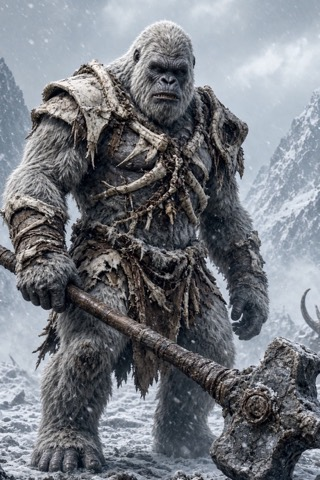
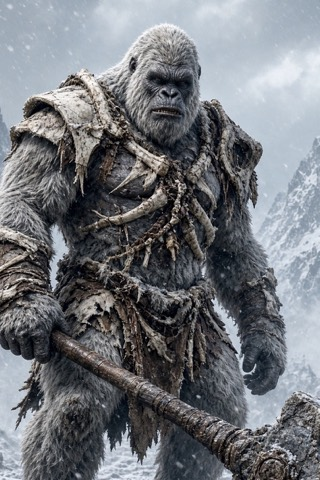
Resting-thumb guard, longer Night Vision, POLY on Halloween, lap-wrap map, bigger Ice Age cards, stale ad fix
- A still press held over 500ms on a card is a grip, not a tap (FX.restGuard)
- Night Vision lasts 6.5s (was 4.4s); dev switch NIGHT VISION LENGTH
- Every Halloween level deals the POLY card; Halloween records move to deal 1010
- POLY lightbox paints its hologram background on the first open
- Chapter 11 -> 1 plays as a fresh intro (EXPEDITION+ BEGINS) instead of the trail in reverse
- Ice Age cards: cardFill 1.15, board thumbs zoomed 1.45x
- iOS/Android: rewarded ads older than 55 minutes are dropped and reloaded

diff --git a/web/index.html b/web/index.html
@@ -633,7 +633,7 @@
   <div class="overlay" id="overlay"><div class="dialog"><h2 id="resultTitle">CAGE FULL</h2><p id="resultText"></p><p class="continue-pitch" id="continuePitch" hidden>One more chance? Clear your cage and keep going.</p><p class="tut-resume-note" id="tutResumeNote"></p><button class="action primary ad-btn" id="continueLevel" hidden><svg class="ad-play" viewBox="0 0 24 24" aria-hidden="true"><path d="M8 5.5v13l10.5-6.5z"/></svg>RESUME <small>(Watch Ad)</small></button><button class="action primary ad-btn" id="adShuffle" hidden><svg class="ad-play" viewBox="0 0 24 24" aria-hidden="true"><path d="M8 5.5v13l10.5-6.5z"/></svg>SHUFFLE <small>(Watch Ad)</small></button><button class="action primary" id="retryLevel">RETRY LEVEL</button><button class="action" id="overlayUndo" hidden>Undo last move</button><button class="action ad-btn" id="adUndo" hidden><svg class="ad-play" viewBox="0 0 24 24" aria-hidden="true"><path d="M8 5.5v13l10.5-6.5z"/></svg>UNDO <small>(Watch Ad)</small></button><button class="link-btn" id="failHome">Home</button></div></div>
   <div class="overlay" id="climbOverlay"><div class="dialog climb-dialog" role="dialog" aria-modal="true" aria-labelledby="climbTitle"><h2 id="climbTitle">CLIMBING!</h2><p class="climb-sub" id="climbSub"></p><ol class="climb-list" id="climbList"></ol><p class="climb-more" id="climbMore" hidden></p><button class="action primary" id="climbContinue">CONTINUE</button></div></div>
   <div class="overlay" id="winOverlay"><div class="win-rays" aria-hidden="true"></div><div class="dialog win-dialog"><div class="win-hero win-step" id="winHero"><div class="win-hero-card" id="winHeroCard"></div><div class="win-level" id="winLevel">LEVEL 1 CLEAR!</div></div><div class="win-time win-step" id="winTimeBox"><small>YOUR TIME</small><b id="winTime">0:00</b><div class="win-stamp" id="winStamp" hidden><b>NEW BEST!</b><small id="winStampSub"></small></div></div><div class="win-badge win-step" id="winBadge"></div><div class="win-badge win-world win-step" id="winWorld" hidden></div><div class="win-score win-step" id="winScore"><div class="win-gain"><span><b id="winPoints">+0</b><small id="winPointsLabel">POINTS</small></span><span><b id="winXp">+0</b><small>XP</small></span><span id="winChain" hidden><b id="winChainN">×0</b><small id="winChainLabel">BEST CHAIN</small></span></div><div class="win-tier" id="winTier"><span id="winTierBadge"></span><div class="tier-track"><div class="tier-bar"><i id="winTierFill"></i></div><small id="winTierText"></small></div><div class="win-streak win-step" id="winStreak" hidden><span class="flame" aria-hidden="true">🔥</span><b id="winStreakCount">1</b><small id="winStreakLabel" data-loc-html="DAY<br>STREAK">DAY<br>STREAK</small></div></div><div class="win-chapter" id="winChapter" hidden><small id="winChapterDone">CHAPTER COMPLETE</small><b id="winChapterName"></b><em id="winChapterNext"></em></div><div class="win-unlock" id="winUnlock" hidden><small>NEW CARDS UNLOCKED</small><b id="winUnlockName"></b></div><div class="win-rank" id="winRank" hidden><b id="winRankText"></b></div></div><button class="action primary" id="nextLevel">NEXT LEVEL</button><button class="link-btn" id="winHome">Home</button></div></div>
-<div class="overlay" id="settings"><div class="dialog settings-dialog" role="dialog" aria-modal="true" aria-labelledby="settingsTitle"><div class="settings-art" aria-hidden="true"></div><button class="settings-close" id="settingsClose" aria-label="Close settings">×</button><div class="settings-scroll"><h2 id="settingsTitle">SETTINGS</h2><div class="set-row"><div class="set-label">PLAYER</div><button class="name-chip" id="settingsName"><span id="settingsTierBadge"></span><b id="settingsNameText">—</b><small>EDIT ✎</small></button></div><div class="set-row"><div class="set-label" id="musicLabel">MUSIC</div><div class="dip" data-setting="music" role="radiogroup" aria-labelledby="musicLabel"><button role="radio" data-value="relaxed">RELAXED</button><button role="radio" data-value="competitive">COMPETITIVE</button></div><small class="set-hint" id="musicHint"></small></div><div class="set-row"><div class="set-label" id="difficultyLabel">DIFFICULTY</div><div class="dip" data-setting="difficulty" role="radiogroup" aria-labelledby="difficultyLabel"><button role="radio" data-value="easy">EASY</button><button role="radio" data-value="normal">NORMAL</button></div><small class="set-hint" id="difficultyHint"></small></div><div class="set-row"><div class="set-label" id="cageLabel">CAGE</div><div class="dip" data-setting="cage" role="radiogroup" aria-labelledby="cageLabel"><button role="radio" data-value="hand">CHAINED</button><button role="radio" data-value="classic">CLASSIC</button></div><small class="set-hint" id="cageHint"></small></div><div class="set-row"><div class="set-label" id="soundLabel">SOUND</div><div class="dip" data-setting="sound" role="radiogroup" aria-labelledby="soundLabel"><button role="radio" data-value="on">ON</button><button role="radio" data-value="off">OFF</button></div><small class="set-hint" id="soundHint"></small></div><div class="set-row"><div class="set-label">VOLUME</div><label class="vol-row"><span>MUSIC</span><input type="range" class="vol" id="musicVol" min="0" max="100" step="5" aria-label="Music volume"><b id="musicVolText"></b></label><label class="vol-row"><span>SFX</span><input type="range" class="vol" id="sfxVol" min="0" max="100" step="5" aria-label="Sound effects volume"><b id="sfxVolText"></b></label></div><div class="set-row"><div class="set-label" id="langLabel">LANGUAGE</div><div class="dip" data-setting="lang" role="radiogroup" aria-labelledby="langLabel"><button role="radio" data-value="en">ENGLISH</button><button role="radio" data-value="es">ESPAÑOL</button></div></div><div class="set-row"><div class="set-label">CREDITS</div><small class="set-hint set-credits">Gibbon calls are clipped from “Gibbons 1” by ascap and “Gibbons-Kao Yai National Park” by RTB45 (freesound.org), licensed CC BY 4.0, and edited by Polymer Jones.</small></div><div class="set-row" id="adPrivacyRow" hidden><div class="set-label">ADS</div><button class="name-chip" id="adPrivacy"><b>AD PRIVACY CHOICES</b></button></div><div class="set-row"><div class="set-label">HOW TO PLAY</div><button class="name-chip" id="replayTutorial"><b>REPLAY TUTORIAL</b></button></div><div class="set-row dev-only"><div class="set-label">DEV TOOLS</div><div class="trial-row"><small>JUMP TO LEVEL</small><div class="dev-jump"><button data-step="-10">−10</button><button data-step="-1">−1</button><b id="devLevel">1</b><button data-step="1">+1</button><button data-step="10">+10</button><button class="dev-go" id="devGo">GO</button></div></div><div class="trial-row"><small>TEST (NOTHING IS SAVED OR SCORED)</small><div class="trial-chips"><button id="devWin">INSTANT WIN</button><button id="devCage3">CAGE 3/4</button><button id="devChain">AUTO PAIRS (COMBO)</button><button id="devPoly">POLY PAYOUT</button><button id="previewTransition">▶ TRANSITION</button><button id="devFps">FPS METER</button></div></div><div class="trial-row"><small>PERF SWITCHES (LIT = NEW CHEAPER VERSION · TAP RELOADS)</small><div class="trial-chips" id="devFx"></div></div><div class="trial-row"><small>COMBO MUSIC</small><div class="trial-chips" data-trial="comboMusic"><button data-value="swap">COMBO TRACK</button><button data-value="both">TEMPO + TONE</button><button data-value="tone">TONE ONLY</button><button data-value="off">OFF</button></div></div><div class="trial-row"><small>THEME</small><div class="trial-chips" data-trial="theme"><button data-value="chapter">CHAPTER</button><button data-value="console">CONSOLE</button><button data-value="jungle">JUNGLE</button><button data-value="halloween">HALLOWEEN</button></div></div><div class="trial-row"><small>HOME MUSIC</small><div class="trial-chips" data-trial="homeMusic"><button data-value="homescreen">HOMESCREEN</button><button data-value="sparse">SPARSE TOMS</button><button data-value="rhythmic">RHYTHMIC TENSION</button><button data-value="classic">CLASSIC</button></div></div><div class="trial-row"><small>CHAPTER</small><div class="trial-chips" id="devChapters"><button data-ch="1">1</button><button data-ch="2">2</button><button data-ch="3">3</button><button data-ch="4">4</button><button data-ch="5">5</button><button data-ch="6">6</button><button data-ch="7">7</button><button data-ch="8">8</button><button data-ch="9">9</button><button data-ch="10">10</button><button data-ch="11">11</button></div></div><div class="trial-row"><small>EXPEDITION MAP</small><div class="trial-chips" id="devExpedition"><button data-leg="0">INTRO</button><button data-leg="1">1→2</button><button data-leg="2">2→3</button><button data-leg="3">3→4</button><button data-leg="4">4→5</button><button data-leg="5">5→6</button><button data-leg="6">6→7</button><button data-leg="7">7→8</button><button data-leg="8">8→9</button><button data-leg="9">9→10</button><button data-leg="10">10→11</button><button data-leg="11">11→1+</button></div></div><div class="trial-row"><small>SCENE</small><div class="trial-chips" data-trial="scene"><button data-value="chapter">CHAPTER SCENES</button><button data-value="cards">DEPTH CARDS</button></div></div><div class="trial-row"><small>SEASON</small><div class="trial-chips" data-trial="pack"><button data-value="christmas">CHRISTMAS (FULL)</button><button data-value="christmasLevels">CHRISTMAS LEVELS</button><button data-value="halloween">HALLOWEEN (FULL)</button><button data-value="skin">HALLOWEEN SKIN</button><button data-value="alternate">EVERY OTHER</button><button data-value="mixed">MIXED</button><button data-value="regular">REGULAR</button></div></div><div class="trial-row"><small>POLY CARD (RESTARTS THE LEVEL)</small><div class="trial-chips" data-trial="poly"><button data-value="every">EVERY LEVEL</button><button data-value="auto">NORMAL (~1 IN 2)</button><button data-value="off">OFF</button></div></div><div class="trial-row"><small>TUTORIAL (SAVES NOTHING)</small><div class="trial-chips"><button id="devTutorial">DEV: NEW USER TUTORIAL</button></div></div><div class="trial-row"><small>PROGRESS (KEEPS NAME + SETTINGS)</small><div class="trial-chips"><button id="devReset">RESET TO NEW PLAYER</button><button id="devUndoReset" hidden>UNDO RESET</button></div></div></div><button class="action primary" id="settingsDone">DONE</button></div></div></div>
+<div class="overlay" id="settings"><div class="dialog settings-dialog" role="dialog" aria-modal="true" aria-labelledby="settingsTitle"><div class="settings-art" aria-hidden="true"></div><button class="settings-close" id="settingsClose" aria-label="Close settings">×</button><div class="settings-scroll"><h2 id="settingsTitle">SETTINGS</h2><div class="set-row"><div class="set-label">PLAYER</div><button class="name-chip" id="settingsName"><span id="settingsTierBadge"></span><b id="settingsNameText">—</b><small>EDIT ✎</small></button></div><div class="set-row"><div class="set-label" id="musicLabel">MUSIC</div><div class="dip" data-setting="music" role="radiogroup" aria-labelledby="musicLabel"><button role="radio" data-value="relaxed">RELAXED</button><button role="radio" data-value="competitive">COMPETITIVE</button></div><small class="set-hint" id="musicHint"></small></div><div class="set-row"><div class="set-label" id="difficultyLabel">DIFFICULTY</div><div class="dip" data-setting="difficulty" role="radiogroup" aria-labelledby="difficultyLabel"><button role="radio" data-value="easy">EASY</button><button role="radio" data-value="normal">NORMAL</button></div><small class="set-hint" id="difficultyHint"></small></div><div class="set-row"><div class="set-label" id="cageLabel">CAGE</div><div class="dip" data-setting="cage" role="radiogroup" aria-labelledby="cageLabel"><button role="radio" data-value="hand">CHAINED</button><button role="radio" data-value="classic">CLASSIC</button></div><small class="set-hint" id="cageHint"></small></div><div class="set-row"><div class="set-label" id="soundLabel">SOUND</div><div class="dip" data-setting="sound" role="radiogroup" aria-labelledby="soundLabel"><button role="radio" data-value="on">ON</button><button role="radio" data-value="off">OFF</button></div><small class="set-hint" id="soundHint"></small></div><div class="set-row"><div class="set-label">VOLUME</div><label class="vol-row"><span>MUSIC</span><input type="range" class="vol" id="musicVol" min="0" max="100" step="5" aria-label="Music volume"><b id="musicVolText"></b></label><label class="vol-row"><span>SFX</span><input type="range" class="vol" id="sfxVol" min="0" max="100" step="5" aria-label="Sound effects volume"><b id="sfxVolText"></b></label></div><div class="set-row"><div class="set-label" id="langLabel">LANGUAGE</div><div class="dip" data-setting="lang" role="radiogroup" aria-labelledby="langLabel"><button role="radio" data-value="en">ENGLISH</button><button role="radio" data-value="es">ESPAÑOL</button></div></div><div class="set-row"><div class="set-label">CREDITS</div><small class="set-hint set-credits">Gibbon calls are clipped from “Gibbons 1” by ascap and “Gibbons-Kao Yai National Park” by RTB45 (freesound.org), licensed CC BY 4.0, and edited by Polymer Jones.</small></div><div class="set-row" id="adPrivacyRow" hidden><div class="set-label">ADS</div><button class="name-chip" id="adPrivacy"><b>AD PRIVACY CHOICES</b></button></div><div class="set-row"><div class="set-label">HOW TO PLAY</div><button class="name-chip" id="replayTutorial"><b>REPLAY TUTORIAL</b></button></div><div class="set-row dev-only"><div class="set-label">DEV TOOLS</div><div class="trial-row"><small>JUMP TO LEVEL</small><div class="dev-jump"><button data-step="-10">−10</button><button data-step="-1">−1</button><b id="devLevel">1</b><button data-step="1">+1</button><button data-step="10">+10</button><button class="dev-go" id="devGo">GO</button></div></div><div class="trial-row"><small>TEST (NOTHING IS SAVED OR SCORED)</small><div class="trial-chips"><button id="devWin">INSTANT WIN</button><button id="devCage3">CAGE 3/4</button><button id="devChain">AUTO PAIRS (COMBO)</button><button id="devPoly">POLY PAYOUT</button><button id="previewTransition">▶ TRANSITION</button><button id="devFps">FPS METER</button></div></div><div class="trial-row"><small>PERF SWITCHES (LIT = NEW CHEAPER VERSION · TAP RELOADS)</small><div class="trial-chips" id="devFx"></div></div><div class="trial-row"><small>COMBO MUSIC</small><div class="trial-chips" data-trial="comboMusic"><button data-value="swap">COMBO TRACK</button><button data-value="both">TEMPO + TONE</button><button data-value="tone">TONE ONLY</button><button data-value="off">OFF</button></div></div><div class="trial-row"><small>THEME</small><div class="trial-chips" data-trial="theme"><button data-value="chapter">CHAPTER</button><button data-value="console">CONSOLE</button><button data-value="jungle">JUNGLE</button><button data-value="halloween">HALLOWEEN</button></div></div><div class="trial-row"><small>HOME MUSIC</small><div class="trial-chips" data-trial="homeMusic"><button data-value="homescreen">HOMESCREEN</button><button data-value="sparse">SPARSE TOMS</button><button data-value="rhythmic">RHYTHMIC TENSION</button><button data-value="classic">CLASSIC</button></div></div><div class="trial-row"><small>CHAPTER</small><div class="trial-chips" id="devChapters"><button data-ch="1">1</button><button data-ch="2">2</button><button data-ch="3">3</button><button data-ch="4">4</button><button data-ch="5">5</button><button data-ch="6">6</button><button data-ch="7">7</button><button data-ch="8">8</button><button data-ch="9">9</button><button data-ch="10">10</button><button data-ch="11">11</button></div></div><div class="trial-row"><small>EXPEDITION MAP</small><div class="trial-chips" id="devExpedition"><button data-leg="0">INTRO</button><button data-leg="1">1→2</button><button data-leg="2">2→3</button><button data-leg="3">3→4</button><button data-leg="4">4→5</button><button data-leg="5">5→6</button><button data-leg="6">6→7</button><button data-leg="7">7→8</button><button data-leg="8">8→9</button><button data-leg="9">9→10</button><button data-leg="10">10→11</button><button data-leg="11">11→1+</button></div></div><div class="trial-row"><small>SCENE</small><div class="trial-chips" data-trial="scene"><button data-value="chapter">CHAPTER SCENES</button><button data-value="cards">DEPTH CARDS</button></div></div><div class="trial-row"><small>SEASON</small><div class="trial-chips" data-trial="pack"><button data-value="christmas">CHRISTMAS (FULL)</button><button data-value="christmasLevels">CHRISTMAS LEVELS</button><button data-value="halloween">HALLOWEEN (FULL)</button><button data-value="skin">HALLOWEEN SKIN</button><button data-value="alternate">EVERY OTHER</button><button data-value="mixed">MIXED</button><button data-value="regular">REGULAR</button></div></div><div class="trial-row"><small>POLY CARD (RESTARTS THE LEVEL)</small><div class="trial-chips" data-trial="poly"><button data-value="every">EVERY LEVEL</button><button data-value="auto">NORMAL (~1 IN 2)</button><button data-value="off">OFF</button></div></div><div class="trial-row"><small>NIGHT VISION LENGTH</small><div class="trial-chips" data-trial="vision"><button data-value="short">4.4s (OLD)</button><button data-value="normal">6.5s</button><button data-value="long">8s</button></div></div><div class="trial-row"><small>TUTORIAL (SAVES NOTHING)</small><div class="trial-chips"><button id="devTutorial">DEV: NEW USER TUTORIAL</button></div></div><div class="trial-row"><small>PROGRESS (KEEPS NAME + SETTINGS)</small><div class="trial-chips"><button id="devReset">RESET TO NEW PLAYER</button><button id="devUndoReset" hidden>UNDO RESET</button></div></div></div><button class="action primary" id="settingsDone">DONE</button></div></div></div>
   <section class="home" id="home" aria-label="Home"><div class="home-bg" id="homeBg"></div><header class="home-top"><div class="home-top-left"><button class="home-icon" id="homeSound" title="Sound" aria-label="Sound">♪</button><button class="home-icon home-trophy" id="homeLeaders" title="Leaderboard" aria-label="Leaderboard">🏆</button></div><div class="home-top-right"><div class="home-streak"><span>🔥</span><b id="homeStreak">0</b><small data-loc-html="DAY<br>STREAK">DAY<br>STREAK</small></div><button class="gear-btn home-gear" id="homeGear" title="Settings" aria-label="Settings"><svg viewBox="0 0 32 32" aria-hidden="true"><circle cx="16" cy="16" r="13.6" fill="none" stroke="currentColor" stroke-width="3" stroke-dasharray="3.6 5.95"/><circle cx="16" cy="16" r="11.6" fill="none" stroke="currentColor" stroke-width="1.6"/><path transform="translate(9.2 8.6) scale(.136)" d="M24 106C16 98 10 84 8 72C6 64 12 60 17 64C22 69 26 78 31 80L29 24A5.5 5.5 0 0 1 40 23L43 52Q45.5 56 48 52L49 13A5.5 5.5 0 0 1 60 13L60 53Q62.5 57 65 53L67 17A5.5 5.5 0 0 1 78 18L75 55Q77 59 80 55L83 30A5 5 0 0 1 93 32L84 66C82 80 82 94 82 106L60 106Q54 100 48 106Z" fill="none" stroke="currentColor" stroke-width="11" stroke-linejoin="round"/></svg></button></div></header><div class="home-logo" id="homeLogo"><img src="art/home/logo.png" alt="Monkey Trubble"></div><div class="home-byline-row"><button class="byline-poly-btn" id="bylinePoly" aria-label="What’s new"><img class="byline-poly" src="cards/thumb/poly.jpg" alt=""></button><div class="home-byline" id="homeByline">A GAME BY POLYMER JONES</div></div><div class="home-card" aria-hidden="true"><div class="ticker-plane"><div class="ticker-track" id="homeTicker"></div></div></div><button class="home-play" id="homePlay"><small id="homeChapter">PLAY</small><span>LEVEL <b id="homeLevel">1</b></span></button><div class="home-best" id="homeBest"></div><div class="home-week" id="homeWeek"></div><button class="home-profile" id="homeProfile" hidden><span id="homeTierBadge"></span><span class="home-profile-text"><b id="homeName"></b><small id="homeTierText"></small></span></button></section>
   <section class="leaders hidden" id="leaders" aria-label="Leaderboard"><header class="leaders-top"><button class="home-icon" id="leadersBack" title="Back" aria-label="Back">‹</button><h2>LEADERBOARD</h2><button class="home-icon" id="leadersRefresh" title="Refresh" aria-label="Refresh">⟳</button></header><div class="leaders-tabs" role="tablist"><button role="tab" aria-selected="true">GLOBAL</button><button role="tab" aria-selected="false" disabled>FRIENDS <small>SOON</small></button></div><div class="tier-legend" id="tierLegend"></div><div class="leaders-status" id="leadersStatus" role="status"></div><ol class="leaders-list" id="leadersList"></ol><div class="leaders-me" id="leadersMe"></div></section>
   <div class="overlay" id="reportDialog"><div class="dialog reward-dialog" role="dialog" aria-modal="true" aria-labelledby="reportTitle"><h2 id="reportTitle"></h2><p id="reportText">Report this name as offensive, or hide this player on your phone.</p><button class="action primary" id="reportName">REPORT NAME</button><button class="action" id="hidePlayer">HIDE PLAYER</button><button class="link-btn" id="reportCancel">Cancel</button></div></div>
@@ -673,8 +673,8 @@
     // until the next touch. lighterLayers: cards rest flat (no rotateY/preserve-3d, so no 3D layer each); flips still turn in 3D.
     // owlOnce: the hint owl blinks on a timer instead of an endless SVG animation. motionGate: the phone's motion sensor runs only
     // while something on screen reacts to tilt (the board, Settings, the lightbox) and the scenery is awake. audioIdle: the audio
-    // engine sleeps while sound and music are both off.
-    const FX={shineSleep:true,tiltLite:true,driftLiteral:true,cageShineOnce:true,glowOpacity:true,owlSlow:true,waterSleep:true,audioSleep:true,lightPreload:true,renderCache:true,clockSleep:true,bakedField:true,canvasBurst:true,clearLite:true,edgeLite:true,overlayLite:true,instantFlip:true,sceneClock:true,idleRest:true,lighterLayers:true,owlOnce:true,motionGate:true,audioIdle:true};
+    // engine sleeps while sound and music are both off. restGuard (2026-10-22, input, not perf): a long still press on a card is not a tap.
+    const FX={shineSleep:true,tiltLite:true,driftLiteral:true,cageShineOnce:true,glowOpacity:true,owlSlow:true,waterSleep:true,audioSleep:true,lightPreload:true,renderCache:true,clockSleep:true,bakedField:true,canvasBurst:true,clearLite:true,edgeLite:true,overlayLite:true,instantFlip:true,sceneClock:true,idleRest:true,lighterLayers:true,owlOnce:true,motionGate:true,audioIdle:true,restGuard:true};
     // Dev tools can flip any switch for A/B testing on the phone (saved, applied on reload).
     try{const saved=JSON.parse(localStorage.getItem('monkeyFX')||'{}');for(const k in FX)if(typeof saved[k]==='boolean')FX[k]=saved[k]}catch{}
     for(const[k,on]of Object.entries(FX))document.documentElement.classList.toggle(`fx-${k}`,on);
@@ -941,9 +941,9 @@
       {name:'KINGDOM OF THE CANOPY',ui:'canopy',habitat:'Upper tropical rainforest canopy',shapes:['twinstacks','valley','columns','monkey'],featured:['S2_GIBBON','S2_LTMACAQUE','S2_PIGTAILED','APE_SUMATRAN','APE_SIAMANG'],foods:['F_BANANA'],scene:'canopy',vision:'OWL',ambient:'leaves',music:{competitive:'gorilla'},
         pal:{sky:['#f2c27a','#bfe3d6'],far:'#4f9a6a',mid:'#2e7048',near:'#14452a',accent:'#ffe28a'}},
       // Ice Age (2026-10-19): Paul's battle-ape set (CARD_DATA set:'iceage'), dealt in full; never a Halloween level (noSeason).
-      // cardFill: its full-body art is drawn on bigger cards (1.1 of a grid cell, overlapping neighbours a little; see boardMetrics).
+      // cardFill: its full-body art is drawn on bigger cards (1.15 of a grid cell since 2026-10-22, was 1.1, overlapping neighbours a little; see boardMetrics).
       // altArt: two paintings, alternating by level (art/chapters/11 on the chapter's 1st/3rd/5th level, art/chapters/11b on the others).
-      {name:'ICE AGE BATTLE APES',ui:'iceage',set:'iceage',noSeason:true,altArt:true,cardFill:1.1,habitat:'Ice Age glaciers and mammoth steppe',shapes:['valley','peaks','twinstacks'],featured:['I12','I26','I03'],region:['I01','I02','I03','I04','I05','I06','I07','I08','I09','I10','I11','I12','I13','I14','I15','I16','I17','I18','I19','I20','I21','I22','I23','I24','I25','I26','I27','I28'],scene:'iceage',vision:'OWL',ambient:'snow',music:{competitive:'competitiveDeep'},
+      {name:'ICE AGE BATTLE APES',ui:'iceage',set:'iceage',noSeason:true,altArt:true,cardFill:1.15,habitat:'Ice Age glaciers and mammoth steppe',shapes:['valley','peaks','twinstacks'],featured:['I12','I26','I03'],region:['I01','I02','I03','I04','I05','I06','I07','I08','I09','I10','I11','I12','I13','I14','I15','I16','I17','I18','I19','I20','I21','I22','I23','I24','I25','I26','I27','I28'],scene:'iceage',vision:'OWL',ambient:'snow',music:{competitive:'competitiveDeep'},
         pal:{sky:['#a9c4dc','#eef6fb'],far:'#9fb8cc',mid:'#6d8aa0',near:'#33475a',accent:'#e6f4ff'}}
     ];
     // Boss level (2026-10-14): each chapter's last level deals THE ORIGINAL TROOP (the photo set, Patriots, Caulin Plushie: DECK)
@@ -1399,7 +1399,8 @@
     // (a plain 50% roll per level left gaps like 16-20, Paul 2026-10-21). Levels 1-2 never have one. Kevin + POLY + the joker unit +
     // pairs is an even count, so the layout gives up one top card (seeded pick, one that sits on others when the shape has one).
     // Dev switch POLY CARD: every level (from level 1) or none, to test it.
-    const POLY_CHANCE=.5,polyLevel=level=>(m=>m==='every'?1:m==='off'?0:level>2&&(level-1)%2===(mulberry32(Math.floor((level-1)/2)*7919+3)()<POLY_CHANCE?0:1)?1:0)(trial('poly'));
+    // Halloween levels always deal the POLY card (Paul, 2026-10-22); other levels get it about half the time (two-level blocks, seeded).
+    const POLY_CHANCE=.5,polyLevel=level=>(m=>m==='every'?1:m==='off'?0:levelPack(level)==='halloween'?1:level>2&&(level-1)%2===(mulberry32(Math.floor((level-1)/2)*7919+3)()<POLY_CHANCE?0:1)?1:0)(trial('poly'));
     function dropPolySlot(pos,level){if(!polyLevel(level))return pos;const top=pos.filter(p=>!p.blockers.length),stacked=top.filter(p=>pos.some(o=>o.blockers.includes(p.id))),pool=stacked.length?stacked:top,cut=pool[Math.floor(mulberry32(level*7919+5)()*pool.length)];
       return pos.filter(p=>p!==cut).map(p=>({...p,blockers:p.blockers.filter(id=>id!==cut.id)}))}
     function buildLevelBoard(level,easy=false){
@@ -1686,12 +1687,14 @@
     // without it (dev preview, intro) the map just plays over the current screen. Resolves when the map has gone.
     async function playExpedition({from=0,to,plus=false,prepare,swap}){
       if(ex.busy){swap?.();return}
+      // Wrapping round to chapter 1 (Expedition+, Paul 2026-10-22) plays as a fresh start, like the intro, instead of walking the whole trail backwards.
+      const newLap=from>0&&to<from;if(newLap)from=0;
       const ok=await Promise.race([prepareExpedition(),new Promise(r=>setTimeout(()=>r(false),2500))]);
       if(!ok){if(swap)playLevelTransition(swap,{prepare});return}
       ex.busy=true;ex.skip=false;const el=$('#expedition'),wait=ms=>new Promise(r=>setTimeout(r,ms)),calm=reduceMotion.matches,ch=CHAPTERS[to-1];
       const {path,len,dots,head,marker}=exSetup(from,to),z0=exZoom(),[ax,ay]=from?exPt(from):EXPEDITION.trail[0],intro=[EXPEDITION.w/2,0,z0],[bx,by]=exPt(to);
       const zFar=Math.max(exZoomWide(),z0*Math.max(.62,1-len/5200/exU())),travel=from?Math.min(4200,Math.max(2600,2200+len*.6/exU())):1700;
-      $('#exTitle').getAnimations().forEach(a=>a.cancel());$('#exTitle').style.opacity=0;$('#exChapter').textContent=loc('CHAPTER {0}',`${to}${plus?'+':''}`);$('#exName').textContent=loc(ch.name);$('#exHabitat').textContent=from?loc(ch.habitat).toUpperCase():loc('THE EXPEDITION BEGINS');
+      $('#exTitle').getAnimations().forEach(a=>a.cancel());$('#exTitle').style.opacity=0;$('#exChapter').textContent=loc('CHAPTER {0}',`${to}${plus?'+':''}`);$('#exName').textContent=loc(ch.name);$('#exHabitat').textContent=from?loc(ch.habitat).toUpperCase():loc(newLap?'EXPEDITION+ BEGINS':'THE EXPEDITION BEGINS');
       $('#exCard').src=`art/chapters/${to}/far.jpg`;$('#exCard').onerror=()=>{$('#exCard').hidden=true};$('#exCard').hidden=false;
       // The intro opens at the top of the world (the Canopy, the journey's end), pans down the whole map, then the route walks in to the Bridge.
       if(from)exCamera(ax,ay,z0);else exCamera(...intro);
@@ -2060,10 +2063,13 @@
     }
     // Free cards act on pointerup rather than click: iOS drops the click on a light or slightly rolling tap, which made cards feel sticky.
     // The click that may still follow is ignored for a moment (tapAt), and a peek drag never counts as a tap.
+    // FX.restGuard (Paul, 2026-10-22): a finger that sits on a card past REST_PRESS_MS without dragging is a grip, not a tap, so lifting
+    // it plays nothing (holding the phone at an angle sent monkeys to the cage). The click that follows is still swallowed by tapAt.
+    const REST_PRESS_MS=500;
     function enablePeekDrag(node){
       // Bound once per free spell: re-binding mid-drag (any render) would drop the drag's state.
       if(node.peekBound)return;node.peekBound=true;
-      let startX=0,startY=0,dragging=false,pressed=false,ghost=null,origin=null,target=null;
+      let startX=0,startY=0,pressAt=0,dragging=false,pressed=false,ghost=null,origin=null,target=null;
       const offset=(target,dx,dy)=>{target.style.setProperty('--drag-x',`${dx}px`);target.style.setProperty('--drag-y',`${dy}px`)};
       // A dragged card is lifted into a fixed top layer so it stays above the hero, the cage and every other card instead of being clipped by the board.
       // Lift: the copy keeps the card's exact size, then springs up to LIFT_SCALE with a glow, a deep shadow and a soft swish. One
@@ -2105,9 +2111,9 @@
         if(settling){const {g,st}=settling;settling=null;g.style.pointerEvents='';g.onpointerdown=null;g.classList.remove('settling');g.classList.add('dragging');
           Object.assign(st,{home:false,landed:false,onSettled:null,tx:st.x,ty:st.y,ts:LIFT_SCALE});ghost=g;anim=st;startX=e.clientX-st.x;startY=e.clientY-st.y;
           dragging=true;pressed=false;peekDragging=true;document.body.classList.add('peek-drag');markWouldFree(node.dataset.id,true);node.setPointerCapture(e.pointerId);playDragSound('lift');haptic('cardFlip');return}
-        const tile=state.tiles.find(t=>t.id===node.dataset.id);if(tile?.active&&tile.symbol!==KEVIN){const mate=[...activePresses.values()].find(t=>pressPair(t,tile));if(mate){activePresses.clear();tapPair(mate,tile);return}activePresses.set(e.pointerId,tile)}startX=e.clientX;startY=e.clientY;dragging=false;pressed=true;node.classList.remove('touch-glow');void node.offsetWidth;node.classList.add('touch-glow');setTimeout(()=>node.classList.remove('touch-glow'),560);node.setPointerCapture(e.pointerId)};
+        const tile=state.tiles.find(t=>t.id===node.dataset.id);if(tile?.active&&tile.symbol!==KEVIN){const mate=[...activePresses.values()].find(t=>pressPair(t,tile));if(mate){activePresses.clear();tapPair(mate,tile);return}activePresses.set(e.pointerId,tile)}startX=e.clientX;startY=e.clientY;pressAt=performance.now();dragging=false;pressed=true;node.classList.remove('touch-glow');void node.offsetWidth;node.classList.add('touch-glow');setTimeout(()=>node.classList.remove('touch-glow'),560);node.setPointerCapture(e.pointerId)};
       node.onpointermove=e=>{if(!node.hasPointerCapture(e.pointerId))return;const dx=e.clientX-startX,dy=e.clientY-startY;if(!dragging&&Math.hypot(dx,dy)>14){dragging=true;peekDragging=true;document.body.classList.add('peek-drag');lift()}if(dragging&&anim){anim.tx=dx;anim.ty=dy;target=findDropTarget(tileOf(node),origin.x+dx,origin.y+dy,origin);showDropTarget(target)}};
-      node.onpointerup=e=>{activePresses.delete(e.pointerId);if(node.hasPointerCapture(e.pointerId))node.releasePointerCapture(e.pointerId);const wasDrag=dragging,wasPressed=pressed;pressed=false;if(wasPressed||wasDrag||!FX.instantFlip)node.dataset.tapAt=performance.now();if(wasDrag){if(resolveDrop(tileOf(node),target,{releaseInto,drop,unflip}))return;setMessage(loc('Peek only — the card underneath stays barricaded until this card is played.'))}drop(unflip);if(wasPressed&&!wasDrag){const tile=state.tiles.find(t=>t.id===node.dataset.id);if(tile)handleTile(tile,node)}};
+      node.onpointerup=e=>{activePresses.delete(e.pointerId);if(node.hasPointerCapture(e.pointerId))node.releasePointerCapture(e.pointerId);const wasDrag=dragging,wasPressed=pressed;pressed=false;if(wasPressed||wasDrag||!FX.instantFlip)node.dataset.tapAt=performance.now();if(wasDrag){if(resolveDrop(tileOf(node),target,{releaseInto,drop,unflip}))return;setMessage(loc('Peek only — the card underneath stays barricaded until this card is played.'))}drop(unflip);if(wasPressed&&!wasDrag&&!(FX.restGuard&&performance.now()-pressAt>REST_PRESS_MS)){const tile=state.tiles.find(t=>t.id===node.dataset.id);if(tile)handleTile(tile,node)}};
       node.onpointercancel=e=>{activePresses.delete(e.pointerId);pressed=false;drop(unflip)};
       node.onlostpointercapture=e=>{activePresses.delete(e.pointerId);if(dragging&&ghost){pressed=false;drop(unflip)}}
     }
@@ -2379,12 +2385,15 @@
     // Who holds the reveal power this level: the chapter's vision monkey, or Kevin (Halloween, or chapters without one).
     const visionCard=()=>state.pack==='christmas'?VISION_CARDS[state.level%2?'XMAS_AYEAYE':'XMAS_NIGHT']:state.pack!=='halloween'&&VISION_CARDS[chapterFor(state.level).vision]||null;
     const visionName=()=>loc(visionCard()?.name||'Kevin'),visionPower=()=>loc(visionCard()?'Night Vision':'MVP Vision');
+    // Night Vision from a chapter's vision monkey (Owl Monkey...) holds the board face up this long; Kevin's MVP Vision keeps to his sound.
+    // Paul, 2026-10-22: 4.4s was too short to read the board; dev switch VISION to compare.
+    const VISION_PEEK_MS={short:4368,normal:6500,long:8000};
     function fireKevin(tile){
       const s=state,node=board.querySelector(`[data-id="${tile.id}"]`);tile.active=false;tile.temporaryReveal=false;
       if(node){const r=node.getBoundingClientRect(),copy=node.cloneNode(true);copy.removeAttribute('data-id');copy.classList.remove('board-tile');copy.style.left=`${r.left+r.width/2}px`;copy.style.top=`${r.top+r.height/2}px`;copy.style.zIndex='';$('#dragLayer').append(copy);copy.animate([{scale:1,opacity:1},{scale:1.35,opacity:1,offset:.4},{scale:1.7,opacity:0}],{duration:560,easing:'cubic-bezier(.2,.8,.2,1)',fill:'forwards'}).onfinish=()=>copy.remove();explode(node)}
       const horror=s.pack==='halloween',stand=visionCard();featuredSymbol=KEVIN;
       if(stand){duckMusic(1600);playSound('callBaby',{volume:.9});playSound('owlEyes',{volume:.8,delay:.25})}else{duckMusic(duckFor('kevinClear',{rate:horror?HORROR_RATE:1}));playSound('kevinClear',{volume:1,horror})}
-      playSound('match',{volume:.25,rate:1.25});haptic('pairCleared');render();setMessage(loc('{0} // every card revealed',visionPower().toUpperCase()));startPeek(stand?4368:soundLengthMs('kevinClear',4368)/(horror?HORROR_RATE:1));tutorialEvent('vision');
+      playSound('match',{volume:.25,rate:1.25});haptic('pairCleared');render();setMessage(loc('{0} // every card revealed',visionPower().toUpperCase()));startPeek(stand?VISION_PEEK_MS[trial('vision')]||VISION_PEEK_MS.normal:soundLengthMs('kevinClear',4368)/(horror?HORROR_RATE:1));tutorialEvent('vision');
       setTimeout(()=>{if(s===state&&!s.over)finishIfCleared()},560)
     }
     // POLY card (Paul, 2026-10-21): a casino payout. Tapped free and face up, it pops off the board with no cage slot, like Kevin. The
@@ -2699,7 +2708,7 @@
     function cycleVariant(dir){const keys=Object.keys(variants),current=new URLSearchParams(location.search).get('variant')||'A',i=keys.indexOf(current);setVariant(keys[(i+dir+keys.length)%keys.length])}
     // Trials: TRIAL_DEFAULTS holds the approved looks (Depth background, Card Spiral transition, Dimensional menus, Paul's monkey-head badge face,
     // background drift); their alternatives stay in the code but are no longer switchable. DEV_SWITCHES are still picked in dev mode.
-    const TRIALS_KEY='monkeyTrubble.trials',TRIAL_DEFAULTS={bg:'D',transition:'spiral',ui:'dim',avatar:'face',drift:'on',pack:'alternate',scene:'chapter',homeMusic:'sparse',comboMusic:'swap',theme:'chapter',poly:'auto'},DEV_SWITCHES=new Set(['pack','homeMusic','comboMusic','scene','theme','poly']);let trials={...TRIAL_DEFAULTS};try{trials={...TRIAL_DEFAULTS,...JSON.parse(localStorage.getItem(TRIALS_KEY)||'{}')};if(DEBUG_DEFAULTS)trials.pack='alternate';if(trials.homeMusicV!==3){trials.homeMusic='sparse';trials.homeMusicV=3}}catch{}
+    const TRIALS_KEY='monkeyTrubble.trials',TRIAL_DEFAULTS={bg:'D',transition:'spiral',ui:'dim',avatar:'face',drift:'on',pack:'alternate',scene:'chapter',homeMusic:'sparse',comboMusic:'swap',theme:'chapter',poly:'auto',vision:'normal'},DEV_SWITCHES=new Set(['pack','homeMusic','comboMusic','scene','theme','poly','vision']);let trials={...TRIAL_DEFAULTS};try{trials={...TRIAL_DEFAULTS,...JSON.parse(localStorage.getItem(TRIALS_KEY)||'{}')};if(DEBUG_DEFAULTS)trials.pack='alternate';if(trials.homeMusicV!==3){trials.homeMusic='sparse';trials.homeMusicV=3}}catch{}
     const trial=k=>devMode&&DEV_SWITCHES.has(k)?trials[k]:TRIAL_DEFAULTS[k];
     function applyTrials(){setTimeout(()=>window.__kickSlats?.(),0);syncTheme();MUSIC.settings=[christmasFull()?CHRISTMAS_SETTINGS:HOME_TRACK];{const t=christmasFull()?CHRISTMAS_HOME:HOME_MUSIC_OPTIONS[trial('homeMusic')]||HOME_MUSIC_OPTIONS.sparse;if(MUSIC.home[0]!==t){MUSIC.home=[t];if(musicList==='home')playMusic('home',true);else if(settingsMusicReturn?.list==='home')settingsMusicReturn.el=musicEl(t)}}const cmp=$('#badgeCompare');if(cmp)cmp.innerHTML=['classic','monkey'].map(f=>`<span>${tierBadge(TIERS[2],44,f)}${f==='classic'?'CLASSIC':'NEW'}</span>`).join('')+`<span>${tierBadge(TIERS[TIERS.length-1],22,'monkey')}22px</span>`;document.body.dataset.bg=trial('bg');document.body.classList.toggle('ui-dim',trial('ui')==='dim');document.body.classList.toggle('bg-drift',trial('drift')==='on');if(trial('bg')==='D')buildCardField();for(const row of document.querySelectorAll('.trial-chips'))for(const b of row.children)b.setAttribute('aria-checked',String(trials[row.dataset.trial]===b.dataset.value))}
     // Dev tools (Settings, dev mode only): jump to any level's seeded deal, win instantly without saving, or set up a 3/4 cage.
@@ -2895,7 +2904,8 @@
     // CPU-side canvas (reading back the on-screen canvas could stall the GPU on iPhone).
     // Preloading doesn't keep decoded images alive (pinning every card's bitmap starved iOS WebKit of memory, leaving layers such as
     // the Play button unpainted), so the source is loaded here on demand, sampled once, and released.
-    function holoBaseFor(src){if(holoBases.has(src))return holoBases.get(src);const img=decodedImages.get(src);if(!img){if(!holoLoads.has(src)){holoLoads.add(src);const im=new Image();im.onload=()=>{decodedImages.set(src,im);holoBaseFor(src);decodedImages.delete(src);holoLoads.delete(src)};im.onerror=()=>holoLoads.delete(src);im.src=src}return null}
+    // A lightbox that opened before its base was built (the POLY card on the home screen, first open) gets it painted as soon as it loads.
+    function holoBaseFor(src){if(holoBases.has(src))return holoBases.get(src);const img=decodedImages.get(src);if(!img){if(!holoLoads.has(src)){holoLoads.add(src);const im=new Image();im.onload=()=>{decodedImages.set(src,im);holoBaseFor(src);decodedImages.delete(src);holoLoads.delete(src);if(lightbox.open&&!holoBase&&heroSrcOf(lightbox.symbol)===src){holoBase=holoBases.get(src)||null;holoFrame(performance.now(),true)}};im.onerror=()=>holoLoads.delete(src);im.src=src}return null}
       try{const tiny=document.createElement('canvas');tiny.width=6;tiny.height=9;const tx=tiny.getContext('2d',{willReadFrequently:true});tx.drawImage(img,0,0,6,9);
         const d=tx.getImageData(0,0,6,9),p=d.data;for(let i=0;i<p.length;i+=4){const g=(p[i]+p[i+1]+p[i+2])/3;for(let c=0;c<3;c++)p[i+c]=Math.max(0,Math.min(255,(g+(p[i+c]-g)*1.8)*.8))}
         tx.putImageData(d,0,0);holoBases.set(src,tiny);return tiny}catch{return null}}
@@ -2937,7 +2947,7 @@
     ]};
     function openReleaseNotes(){openLightbox({symbol:POLY,from:$('#bylinePoly img'),kicker:'WHAT’S NEW',name:'MONKEY TRUBBLE',latin:loc('Version {0}',RELEASE_NOTES.version),lines:RELEASE_NOTES.lines})}
     function setupLightbox(){
-      $('#featuredArt').addEventListener('click',()=>openLightbox());$('#bylinePoly').onclick=openReleaseNotes;$('#lightboxClose').onclick=()=>closeLightbox();$('#lightboxScrim').onclick=()=>closeLightbox();
+      $('#featuredArt').addEventListener('click',()=>openLightbox());$('#bylinePoly').onclick=openReleaseNotes;prepHolo(POLY);$('#lightboxClose').onclick=()=>closeLightbox();$('#lightboxScrim').onclick=()=>closeLightbox();
       // The first 8px of a drag pick its axis. Down: the card follows the finger, and past 90px it flies home, otherwise it springs
       // back. Sideways: the card spins (lightboxSpin). A tap with no drag closes it.
       const card=$('#lightboxCard');let startX=0,startY=null,dy=0,axis=null,spin0=0,lastX=0,lastT=0,vel=0;
@@ -3201,7 +3211,8 @@
     // records restart on the new boards. A clear's time waits in progress.pendingTimes (best per level) and posts after the profile,
     // since submit_time needs the player's row and checks they've passed the level. worldRecords caches the latest row per level.
     // Seasonal packs deal different boards for the same level, so each pack keeps its own records (deal = pack offset + DEAL_VERSION).
-    const DEAL_VERSION=1,PACK_DEAL={regular:0,halloween:1000,christmas:2000},worldRecords=new Map();let timesSyncing=null;
+    const DEAL_VERSION=1,PACK_DEAL={regular:0,halloween:1010,christmas:2000},worldRecords=new Map();let timesSyncing=null;
+    // Halloween moved 1000 -> 1010 on 2026-10-22 (POLY on every Halloween level changed those boards; regular records kept theirs).
     // Chapter 11 (Ice Age, 2026-10-19) moved every Expedition+ level (51+) onto new boards, so those levels moved to deal +1; 1-50 kept theirs.
     const dealFor=(pack,level)=>(PACK_DEAL[pack]??0)+DEAL_VERSION+(level>50?1:0),recordKey=(level,pack)=>`${level}:${dealFor(pack,level)}`;
     const recordLine=rec=>rec?.time_ms?loc('WORLD RECORD {0} · {1}',formatTime(rec.time_ms),rec.holder_id&&rec.holder_id===progress.player?.id?loc('YOU'):rec.holder):loc('WORLD RECORD · UP FOR GRABS');

diff --git a/MonkeyTrubbleAndroid/app/src/main/java/com/paulfisher/monkeytrubble/Ads.kt b/MonkeyTrubbleAndroid/app/src/main/java/com/paulfisher/monkeytrubble/Ads.kt
@@ -3,6 +3,7 @@ package com.paulfisher.monkeytrubble
 import android.app.Activity
 import android.os.Handler
 import android.os.Looper
+import android.os.SystemClock
 import com.google.android.gms.ads.AdError
 import com.google.android.gms.ads.AdRequest
 import com.google.android.gms.ads.FullScreenContentCallback
@@ -28,6 +29,8 @@ class Ads(private val activity: Activity, private val evaluate: (String) -> Unit
     private val consent = UserMessagingPlatform.getConsentInformation(activity)
     private val started = AtomicBoolean(false)
     private var ad: RewardedAd? = null
+    // AdMob rewarded ads expire an hour after loading; one kept past MAX_AGE_MS is dropped and a fresh one loaded (a stale one can freeze).
+    private var loadedAt = 0L
     private var loading = false
     private var showing = false
     // A tap that arrived while the ad was still loading; it plays once the load finishes or gives up after WAIT_MS.
@@ -75,6 +78,7 @@ class Ads(private val activity: Activity, private val evaluate: (String) -> Unit
             override fun onAdLoaded(loaded: RewardedAd) {
                 loading = false
                 ad = loaded
+                loadedAt = SystemClock.elapsedRealtime()
                 waiting?.let { waiting = null; main.removeCallbacks(giveUp); play(it) }
             }
 
@@ -92,6 +96,7 @@ class Ads(private val activity: Activity, private val evaluate: (String) -> Unit
             return
         }
         val nonce = message.optString("nonce").takeIf { it.isNotEmpty() } ?: return
+        if (ad != null && SystemClock.elapsedRealtime() - loadedAt > MAX_AGE_MS) ad = null
         when {
             showing || waiting != null -> report(nonce, "unavailable")
             ad != null -> play(nonce)
@@ -138,5 +143,6 @@ class Ads(private val activity: Activity, private val evaluate: (String) -> Unit
 
     companion object {
         private const val WAIT_MS = 8_000L
+        private const val MAX_AGE_MS = 55 * 60_000L
     }
 }

diff --git a/MonkeyTrubbleIOS/MonkeyTrubbleIOS/Ads.swift b/MonkeyTrubbleIOS/MonkeyTrubbleIOS/Ads.swift
@@ -14,6 +14,8 @@ final class Ads: NSObject, FullScreenContentDelegate {
     private let unitID = Bundle.main.object(forInfoDictionaryKey: "AdMobRewardedID") as? String ?? ""
     private var started = false
     private var ad: RewardedAd?
+    // AdMob rewarded ads expire an hour after loading; one kept past maxAge is dropped and a fresh one loaded (a stale one can freeze).
+    private var loadedAt = Date.distantPast
     private var loading = false
     private var showing = false
     private var earned = false
@@ -23,6 +25,7 @@ final class Ads: NSObject, FullScreenContentDelegate {
     private var giveUp: DispatchWorkItem?
     private static let waitSeconds = 8.0
     private static let quietMs = 120
+    private static let maxAge: TimeInterval = 55 * 60
 
     func attach(_ webView: WKWebView) {
         self.webView = webView
@@ -80,6 +83,7 @@ final class Ads: NSObject, FullScreenContentDelegate {
                 guard let self else { return }
                 self.loading = false
                 self.ad = loaded
+                self.loadedAt = Date()
                 guard let nonce = self.waiting else { return }
                 self.waiting = nil
                 self.giveUp?.cancel()
@@ -97,6 +101,7 @@ final class Ads: NSObject, FullScreenContentDelegate {
             return
         }
         guard let nonce = message["nonce"] as? String, !nonce.isEmpty else { return }
+        if ad != nil, Date().timeIntervalSince(loadedAt) > Self.maxAge { ad = nil }
         if showing || waiting != nil {
             report(nonce, "unavailable")
         } else if ad != nil {

diff --git a/web/i18n/es.js b/web/i18n/es.js
@@ -212,6 +212,7 @@ window.ES_TEXT={
   "BOSS LEVEL · THE ORIGINAL TROOP":"NIVEL JEFE · LA TROPA ORIGINAL",
   "FEATURED: {0}":"DESTACADOS: {0}",
   "THE EXPEDITION BEGINS":"COMIENZA LA EXPEDICIÓN",
+  "EXPEDITION+ BEGINS":"COMIENZA LA EXPEDICIÓN+",
   "SKIP ›":"SALTAR ›",
   "THE ORIGINAL TROOP":"LA TROPA ORIGINAL",
   "GROUP 2":"GRUPO 2",
